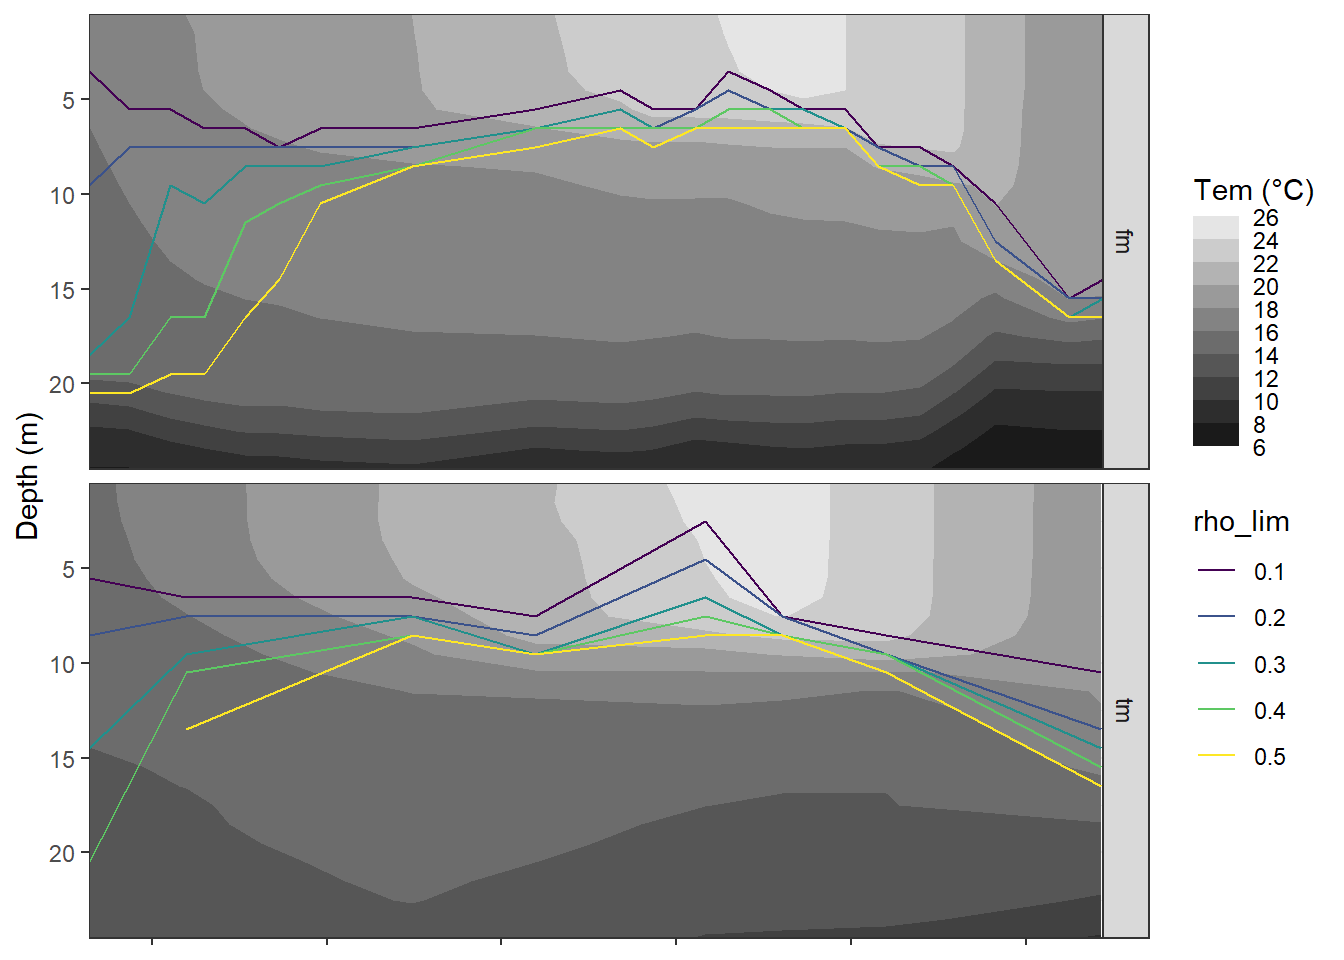
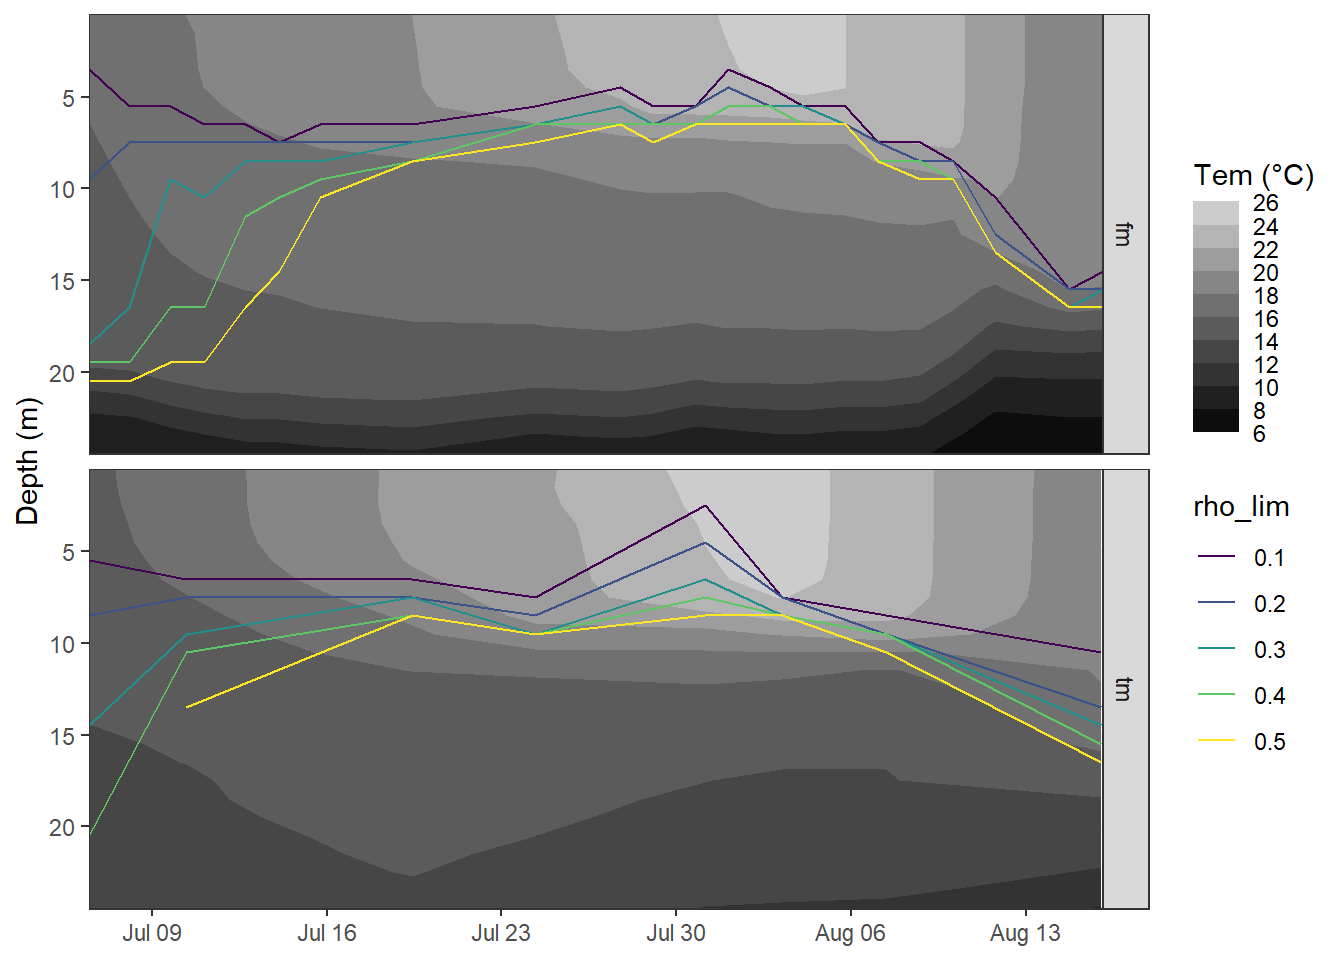
Build site.

diff --git a/docs/NCP_reconstruction.html b/docs/NCP_reconstruction.html
@@ -561,16 +561,16 @@ This reproducible <a href="http://rmarkdown.rstudio.com">R Markdown</a> analysis
 <div class="panel panel-default">
 <div class="panel-heading">
 <p class="panel-title">
-<a data-toggle="collapse" data-parent="#workflowr-checks" href="#strongRepositoryversionstrongahrefhttpsgithubcomjensdanielmuellerBloomSailtree0ba33ec8de552bc6e02de58e37a904138a3f85b1targetblank0ba33eca"> <span class="glyphicon glyphicon-ok text-success" aria-hidden="true"></span> <strong>Repository version:</strong> <a href="https://github.com/jens-daniel-mueller/BloomSail/tree/0ba33ec8de552bc6e02de58e37a904138a3f85b1" target="_blank">0ba33ec</a> </a>
+<a data-toggle="collapse" data-parent="#workflowr-checks" href="#strongRepositoryversionstrongahrefhttpsgithubcomjensdanielmuellerBloomSailtree5651fe5586a5574b90becf2aabb25d51eb7b7d77targetblank5651fe5a"> <span class="glyphicon glyphicon-ok text-success" aria-hidden="true"></span> <strong>Repository version:</strong> <a href="https://github.com/jens-daniel-mueller/BloomSail/tree/5651fe5586a5574b90becf2aabb25d51eb7b7d77" target="_blank">5651fe5</a> </a>
 </p>
 </div>
[2 lines of base64/hex data omitted]
 <div class="panel-body">
 <p>
 Great! You are using Git for version control. Tracking code development and connecting the code version to the results is critical for reproducibility.
 </p>
 <p>
-The results in this page were generated with repository version <a href="https://github.com/jens-daniel-mueller/BloomSail/tree/0ba33ec8de552bc6e02de58e37a904138a3f85b1" target="_blank">0ba33ec</a>. See the <em>Past versions</em> tab to see a history of the changes made to the R Markdown and HTML files.
+The results in this page were generated with repository version <a href="https://github.com/jens-daniel-mueller/BloomSail/tree/5651fe5586a5574b90becf2aabb25d51eb7b7d77" target="_blank">5651fe5</a>. See the <em>Past versions</em> tab to see a history of the changes made to the R Markdown and HTML files.
 </p>
 <p>
 Note that you need to be careful to ensure that all relevant files for the analysis have been committed to Git prior to generating the results (you can use <code>wflow_publish</code> or <code>wflow_git_commit</code>). workflowr only checks the R Markdown file, but you know if there are other scripts or data files that it depends on. Below is the status of the Git repository when the results were generated:
@@ -579,6 +579,7 @@ Note that you need to be careful to ensure that all relevant files for the analy
 Ignored files:
     Ignored:    .Rhistory
     Ignored:    .Rproj.user/
+    Ignored:    analysis/figure/
     Ignored:    data/Finnmaid_2018/
     Ignored:    data/GETM/
     Ignored:    data/Maps/
@@ -626,6 +627,40 @@ Message
 </tr>
 </thead>
 <tbody>
+<tr>
+<td>
+Rmd
+</td>
+<td>
+<a href="https://github.com/jens-daniel-mueller/BloomSail/blob/5651fe5586a5574b90becf2aabb25d51eb7b7d77/analysis/NCP_reconstruction.Rmd" target="_blank">5651fe5</a>
+</td>
+<td>
+jens-daniel-mueller
+</td>
+<td>
+2020-05-19
+</td>
+<td>
+removed deep warming signal for z_pen determination
+</td>
+</tr>
+<tr>
+<td>
+html
+</td>
+<td>
+<a href="https://rawcdn.githack.com/jens-daniel-mueller/BloomSail/6e3d8997f9504ec00aa1586e5e0d024a96c051d0/docs/NCP_reconstruction.html" target="_blank">6e3d899</a>
+</td>
+<td>
+jens-daniel-mueller
+</td>
+<td>
+2020-05-19
+</td>
+<td>
+Build site.
+</td>
+</tr>
 <tr>
 <td>
 Rmd
@@ -1373,16 +1408,15 @@ tm_fm_gt %&gt;%
   geom_path(data = tm_fm_gt_MLD, aes(date_time_ID, MLD, col=rho_lim))+
   scale_fill_gradient(name=&quot;Tem (°C)&quot;,
                       guide = &quot;colorstrip&quot;, breaks = MakeBreaks(bin),
-                      high = &quot;grey90&quot;,
-                      low = &quot;grey10&quot;)+
+                      high = &quot;grey80&quot;,
+                      low = &quot;grey5&quot;)+
   scale_color_viridis_d()+
   scale_y_reverse()+
   scale_x_datetime(date_breaks = &quot;week&quot;,
                    date_labels = &quot;%b %d&quot;)+
   coord_cartesian(expand = 0)+
   labs(y=&quot;Depth (m)&quot;)+
-  theme(axis.title.x = element_blank(),
-        axis.text.x = element_blank())+
+  theme(axis.title.x = element_blank())+
   facet_grid(source~.)</code></pre>
 <p><img src="figure/NCP_reconstruction.Rmd/tm_fm_gt_hovmoeller_tem_MLD-1.png" width="672" style="display: block; margin: auto;" /></p>
 <pre class="r"><code>rm(bin)</code></pre>
@@ -1403,28 +1437,40 @@ tm_fm_gt &lt;- full_join(tm_fm_gt, tm_fm_gt_MLD)</code></pre>
   pivot_longer(c(&quot;tem&quot;, &quot;nCT&quot;), values_to = &quot;value&quot;, names_to = &quot;var&quot;) %&gt;% 
   group_by(source, var, dep) %&gt;%
   arrange(date_time_ID) %&gt;%
-  mutate(#date_time_ID_diff = as.numeric(date_time_ID - lag(date_time_ID)),
-         #date_time_ID_ref  = date_time_ID - (date_time_ID - lag(date_time_ID))/2,
+  mutate(date_time_ID_diff = as.numeric(date_time_ID - lag(date_time_ID)),
+         date_time_ID_ref  = date_time_ID - (date_time_ID - lag(date_time_ID))/2,
          value_diff = value     - lag(value, default = first(value)),
-         #value_diff_daily = value_diff / date_time_ID_diff,
+         value_diff_daily = value_diff / date_time_ID_diff,
          value_cum = cumsum(value_diff)) %&gt;% 
   ungroup()
 
 tm_fm_gt_long &lt;- tm_fm_gt_long %&gt;% 
   filter(var == &quot;tem&quot;) %&gt;% 
   select(-var)</code></pre>
-</div>
-<div id="penetration-depth-1" class="section level2">
-<h2><span class="header-section-number">6.3</span> Penetration depth</h2>
-<div id="cumulative" class="section level3">
-<h3><span class="header-section-number">6.3.1</span> Cumulative</h3>
+<pre class="r"><code>tm_fm_gt_long %&gt;% 
+  filter(date_time_ID == ymd_hms(&quot;2018-07-24 07:58:29&quot;)) %&gt;% 
+  arrange(dep) %&gt;% 
+  ggplot(aes(value_cum, dep))+
+  geom_vline(xintercept = 0)+
+  geom_hline(yintercept = 19)+
+  geom_point()+
+  geom_path()+
+  scale_y_reverse()+
+  labs(y = &quot;Depth (m)&quot;, x=&quot;Cumulative change&quot;)+
+  theme(legend.position = &quot;left&quot;)+
+  facet_grid(.~source, scales = &quot;free_x&quot;)</code></pre>
+<p><img src="figure/NCP_reconstruction.Rmd/cumulative_tem_profile-1.png" width="672" style="display: block; margin: auto;" /></p>
+<div id="cumulative-changes" class="section level3">
+<h3><span class="header-section-number">6.2.1</span> Cumulative changes</h3>
 <pre class="r"><code>tm_fm_gt_long_180723 &lt;- tm_fm_gt_long %&gt;% 
-  filter(date_time_ID == ymd_hms(&quot;2018-07-24 07:58:29&quot;))
+  filter(date_time_ID == ymd_hms(&quot;2018-07-24 07:58:29&quot;)) %&gt;% 
+    mutate(value_cum = if_else(value_cum &lt; 0,
+                             NaN, value_cum),
+         value_cum = if_else(source == &quot;fm&quot; &amp; dep &gt; 19,
+                             NaN, value_cum))
 
 tm_fm_gt_long_180723_dep &lt;- tm_fm_gt_long_180723 %&gt;% 
   select(source, dep, value_cum) %&gt;% 
-  mutate(value_cum = if_else(value_cum &lt; 0,
-                             NaN, value_cum)) %&gt;% 
   group_by(source) %&gt;% 
   arrange(dep) %&gt;% 
   mutate(value_cum_i = sum(value_cum, na.rm = TRUE),
@@ -1448,10 +1494,11 @@ d_pen &lt;- full_join(value_cum, value_surface)
 d_pen &lt;- d_pen %&gt;% 
   mutate(d_pen = value_cum_i / value_surface)
   
-rm(value_cum, value_surface)
-
-
-p_tm_fm_gt_long &lt;- tm_fm_gt_long_180723 %&gt;% 
+rm(value_cum, value_surface)</code></pre>
+</div>
+<div id="cumulative-on-july-23-1" class="section level3">
+<h3><span class="header-section-number">6.2.2</span> Cumulative on July 23</h3>
+<pre class="r"><code>p_tm_fm_gt_long &lt;- tm_fm_gt_long_180723 %&gt;% 
   arrange(dep) %&gt;% 
   ggplot(aes(value_cum, dep))+
   geom_hline(aes(yintercept = integration_dep, col=&quot;integration&quot;))+
@@ -1480,14 +1527,21 @@ p_tm_fm_gt_long_rel &lt;- tm_fm_gt_long_180723_dep %&gt;%
   theme(axis.title.y = element_blank())
 
 p_tm_fm_gt_long + p_tm_fm_gt_long_rel</code></pre>
-<p><img src="figure/NCP_reconstruction.Rmd/penetration_depth_cumulative-1.png" width="672" style="display: block; margin: auto;" /></p>
+<p><img src="figure/NCP_reconstruction.Rmd/penetration_depth_cumulative_profiles_180723-1.png" width="672" style="display: block; margin: auto;" /></p>
 <pre class="r"><code>rm(tm_fm_gt_long_180723,
    tm_fm_gt_long_180723_dep,
    p_tm_fm_gt_long,
-   p_tm_fm_gt_long_rel)</code></pre>
+   p_tm_fm_gt_long_rel)
+
+d_pen</code></pre>
+<pre><code># A tibble: 2 x 4
+  source value_cum_i value_surface d_pen
+  &lt;chr&gt;        &lt;dbl&gt;         &lt;dbl&gt; &lt;dbl&gt;
+1 fm            50.6          4.95  10.2
+2 tm            71.0          6.10  11.6</code></pre>
 </div>
 <div id="daily-1" class="section level3">
-<h3><span class="header-section-number">6.3.2</span> Daily</h3>
+<h3><span class="header-section-number">6.2.3</span> Daily</h3>
 <pre class="r"><code># surface values
 diff_surface &lt;- tm_fm_gt_long %&gt;% 
   filter(dep &lt; surface_dep) %&gt;% 
@@ -1504,7 +1558,9 @@ rm(diff_surface)
 
 penetration_depth &lt;- tm_fm_gt_long %&gt;% 
   mutate(value_diff = if_else(value_diff &lt; 0,
-                                      NaN, value_diff)) %&gt;% 
+                                      NaN, value_diff),
+         value_diff = if_else(source == &quot;fm&quot; &amp; dep &gt; 19,
+                              NaN, value_diff)) %&gt;% 
   group_by(date_time_ID, source) %&gt;% 
   summarise(value_diff_int = sum(value_diff, na.rm = TRUE),
             value_diff_surface = mean(value_diff_surface, na.rm = TRUE)) %&gt;% 
@@ -1561,14 +1617,15 @@ p_surface + p_integrated + p_pen_dep +
 <pre><code># A tibble: 2 x 3
   source penetration_depth_diff_mean penetration_depth_diff_sd
   &lt;chr&gt;                        &lt;dbl&gt;                     &lt;dbl&gt;
-1 fm                            14.3                      5.86
+1 fm                            11.5                      4.31
 2 tm                            11.5                      2.46</code></pre>
 <pre class="r"><code>rm(p_surface, p_integrated, p_pen_dep)
 rm(penetration_depth, penetration_depth_mean, tm_fm_gt_long)</code></pre>
 </div>
 </div>
-<div id="remove-co2-profiles" class="section level2">
-<h2><span class="header-section-number">6.4</span> Remove CO2 profiles</h2>
+</div>
+<div id="remove-co2-profiles" class="section level1">
+<h1><span class="header-section-number">7</span> Remove CO2 profiles</h1>
 <pre class="r"><code>tm_profiles_ID_surface &lt;- tm_profiles_ID %&gt;% 
   filter(dep &lt; surface_dep) %&gt;% 
   group_by(ID) %&gt;% 
@@ -1629,7 +1686,6 @@ loaded via a namespace (and not attached):
 [57] farver_2.0.3       RColorBrewer_1.1-2 promises_1.1.0     fs_1.4.0          
 [61] vctrs_0.2.4        memoise_1.1.0      glue_1.3.2         evaluate_0.14     
 [65] labeling_0.3       reprex_0.3.0       stringi_1.4.6     </code></pre>
-</div>
 </div>
 </div>
 
